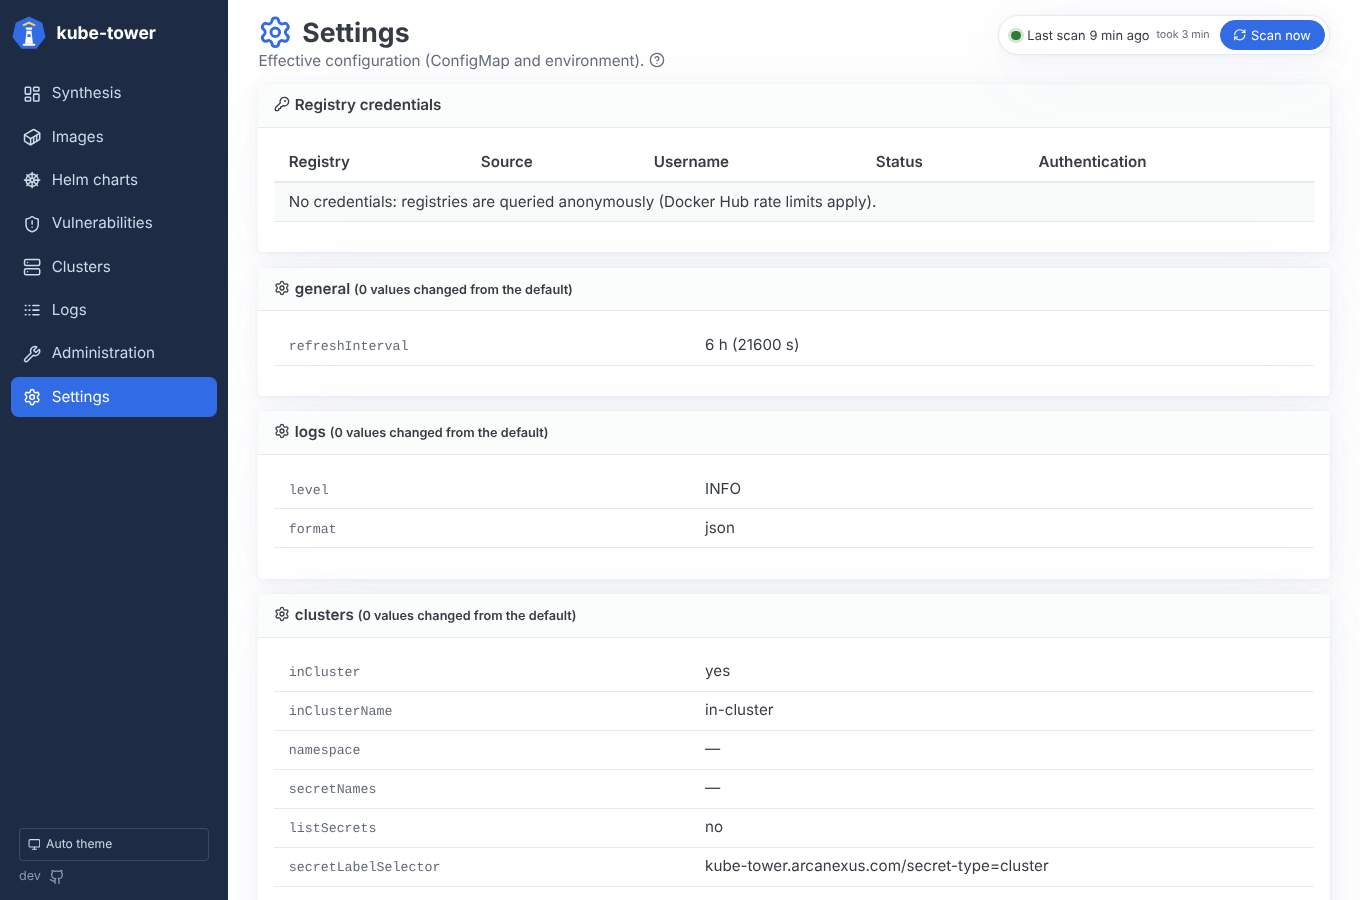
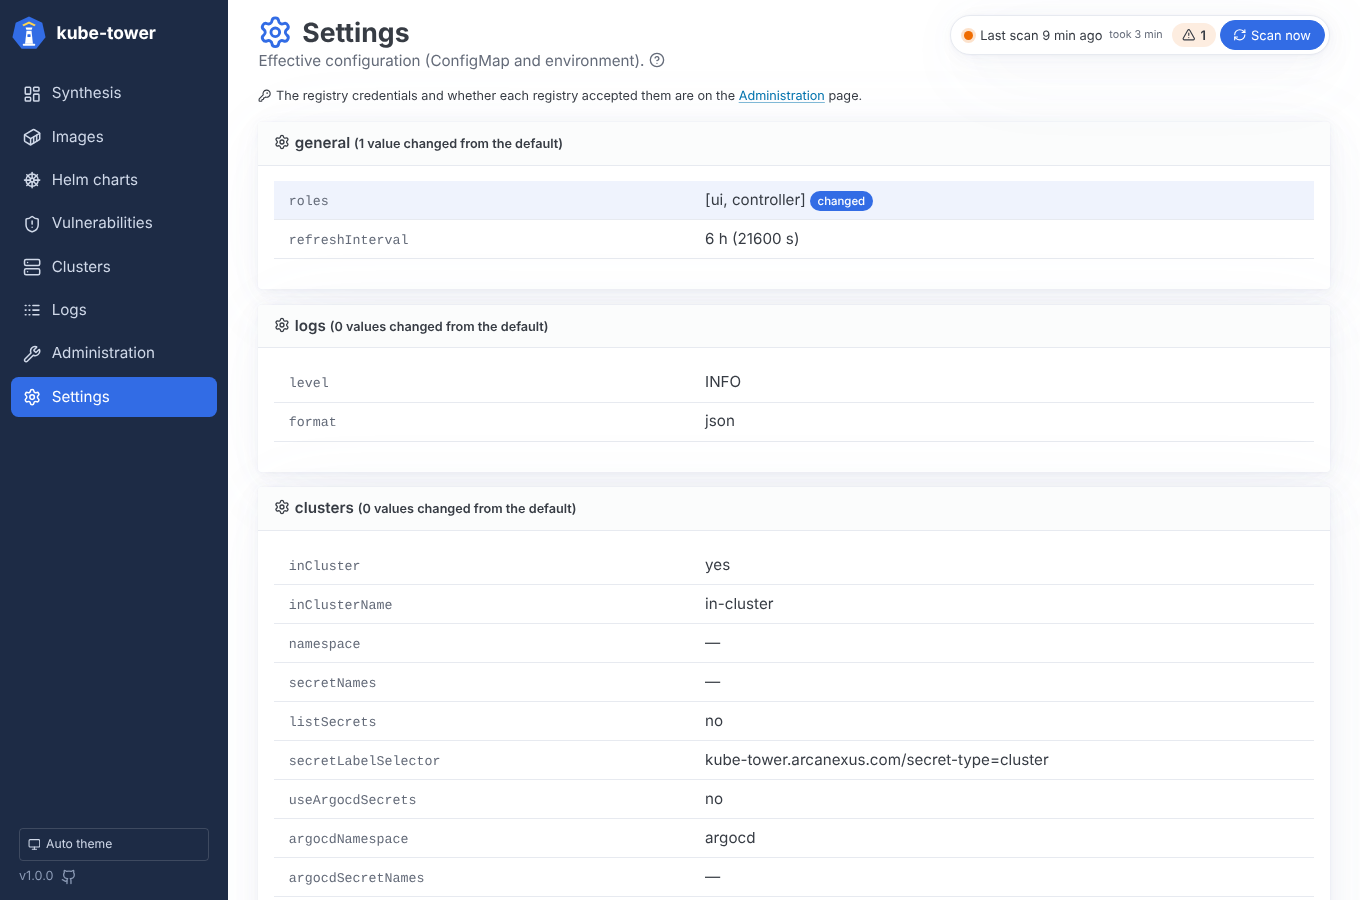
[FIX] Registry authentication status in distributed mode, ui and worker sizing and damped autoscaling (#124)
* [FIX] Registry authentication status seen by the worker pods, shown on the Administration page

In the distributed mode the worker pods query the registries, so the controller's status stayed
"not tried yet". The version check results now carry what the registries answered; the controller
keeps the latest answer of each registry. The registry credentials table moves from the Settings
page to the Administration page.

Claude-Session: https://claude.ai/code/session_012epqzoRGGbjurPhjrWGz7t

* [FIX] Chart: size the ui and worker pods from measures, damp their autoscaling

A ui pod requested 20m of CPU: the 80% autoscaling target (16m) was reached at every page load or
pod start, so the HPA kept adding and removing pods. ui: 1 replica, 100m CPU and 192Mi requested;
worker: 100m and 256Mi; autoscaling from 1 to 4 pods with a default behavior (one pod more per
minute at most, after 2 minutes above the target). docs/scaling.md gives the CPU cost of each page.

Claude-Session: https://claude.ai/code/session_012epqzoRGGbjurPhjrWGz7t

---------

diff --git a/src/kube_tower/web/templates/settings.html b/src/kube_tower/web/templates/settings.html
@@ -3,29 +3,8 @@
 {% block heading %}{{ page_title("settings", "Settings", "Effective configuration (ConfigMap and environment).", "Read from the kube-tower ConfigMap (Helm values) and the environment. Secrets are only referenced, never displayed. Values changed from the defaults are highlighted.") }}{% endblock %}
 {% block content %}
 
-<article class="settings">
-<header>{{ icon("key") }}Registry credentials</header>
-<div class="overflow-auto">
-<table class="striped">
-  <thead><tr><th>Registry</th><th>Source</th><th>Username</th><th>Status</th><th>Authentication</th></tr></thead>
-  <tbody>
-  {% for c in credentials %}
-    <tr>
-      <td><code>{{ c.registry }}</code></td><td>{{ c.source }}</td><td>{{ c.username }}</td>
-      <td>{% if c.ok %}<span class="badge badge-up-to-date">{{ icon("ok") }}loaded</span>{% else %}<span class="badge badge-error">{{ icon("error") }}invalid</span>{% endif %}{% if c.message %}<br><small>{{ c.message }}</small>{% endif %}</td>
-      {% set a = auth[c.registry] %}
-      <td>{% if a is none %}<span class="badge badge-unknown" title="No request with these credentials yet: run a scan or the connectivity test (Administration)">{{ icon("unknown") }}not tried yet</span>
-        {%- else %}<span class="badge {{ 'badge-up-to-date' if a.ok else 'badge-error' }}" title="{{ a.host }}">{{ icon("ok" if a.ok else "error") }}{{ "accepted" if a.ok else "refused" }}</span>
-        <br><small><time datetime="{{ a.at.isoformat() }}" class="ago">{{ a.at.strftime("%Y-%m-%d %H:%M UTC") }}</time>{% if a.host != c.registry %} ({{ a.host }}){% endif %}</small>
-        {%- if a.message %}<br><small>{{ a.message }}</small>{% endif %}{% endif %}</td>
-    </tr>
-  {% else %}
-    <tr><td colspan="5">No credentials: registries are queried anonymously (Docker Hub rate limits apply).</td></tr>
-  {% endfor %}
-  </tbody>
-</table>
-</div>
-</article>
+<p><small>{{ icon("key") }}The registry credentials and whether each registry accepted them are on the
+  <a href="administration#registries">Administration</a> page.</small></p>
 
 {% for name, rows in sections %}
 <article class="settings">

diff --git a/src/kube_tower/web/templates/_administration.html b/src/kube_tower/web/templates/_administration.html
@@ -149,6 +149,31 @@
     {% endif %}
   </article>
 
+  <article id="registries">
+  <header>{{ icon("key") }}Registry credentials</header>
+  <p><small>Loaded from the Secrets, the image pull secrets and the cloud providers; the authentication is the last answer of the registry to a request with these credentials (scans, rescans, connectivity test).</small></p>
+  <div class="overflow-auto">
+  <table class="striped">
+    <thead><tr><th>Registry</th><th>Source</th><th>Username</th><th>Status</th><th>Authentication</th></tr></thead>
+    <tbody>
+    {% for c in credentials %}
+      <tr>
+        <td><code>{{ c.registry }}</code></td><td>{{ c.source }}</td><td>{{ c.username }}</td>
+        <td>{% if c.ok %}<span class="badge badge-up-to-date">{{ icon("ok") }}loaded</span>{% else %}<span class="badge badge-error">{{ icon("error") }}invalid</span>{% endif %}{% if c.message %}<br><small>{{ c.message }}</small>{% endif %}</td>
+        {% set a = auth[c.registry] %}
+        <td>{% if a is none %}<span class="badge badge-unknown" title="No request with these credentials yet: run a scan or the connectivity test">{{ icon("unknown") }}not tried yet</span>
+          {%- else %}<span class="badge {{ 'badge-up-to-date' if a.ok else 'badge-error' }}" title="{{ a.host }}">{{ icon("ok" if a.ok else "error") }}{{ "accepted" if a.ok else "refused" }}</span>
+          <br><small><time datetime="{{ a.at.isoformat() }}" class="ago">{{ a.at.strftime("%Y-%m-%d %H:%M UTC") }}</time>{% if a.host != c.registry %} ({{ a.host }}){% endif %}</small>
+          {%- if a.message %}<br><small>{{ a.message }}</small>{% endif %}{% endif %}</td>
+      </tr>
+    {% else %}
+      <tr><td colspan="5">No credentials: registries are queried anonymously (Docker Hub rate limits apply).</td></tr>
+    {% endfor %}
+    </tbody>
+  </table>
+  </div>
+  </article>
+
   <article>
     <header>{{ icon("trash") }}Unused node images</header>
     <p><small>Images cached on nodes that no workload of their cluster uses (Pods, Deployments, StatefulSets, DaemonSets, CronJobs),

diff --git a/tests/test_web.py b/tests/test_web.py
@@ -317,7 +317,7 @@ def test_metrics():
     assert not any(line.startswith("kube_tower_image_workload_info") and 'kind="Node"' in line for line in lines)
 
 
-def test_settings_page_shows_credentials_without_secrets(monkeypatch):
+def test_administration_page_shows_credentials_without_secrets(monkeypatch):
     from kube_tower.config import RegistryCredential
 
     monkeypatch.setenv("DOCKERHUB_TOKEN", "super-secret-token")
@@ -327,14 +327,20 @@ def test_settings_page_shows_credentials_without_secrets(monkeypatch):
         RegistryCredential("ghcr.io", password_file="/nonexistent"),
     ]
     scanner = FakeScanner()
-    page = TestClient(create_app(settings, scanner, background=False)).get("/settings").text
+    page = TestClient(create_app(settings, scanner, background=False)).get("/administration").text
+    assert '<article id="registries">' in page
     assert "docker.io" in page and "alex" in page and "loaded" in page and "invalid" in page
     assert page.count("not tried yet") == 2
     scanner.registry_auth.record("docker.io", True)
     scanner.registry_auth.record("ghcr.io", False, "ghcr.io refused the credentials: HTTP 403 Forbidden")
-    page = TestClient(create_app(settings, scanner, background=False)).get("/settings").text
+    client = TestClient(create_app(settings, scanner, background=False))
+    page = client.get("/administration").text
     assert "not tried yet" not in page and "accepted" in page and "refused" in page and "HTTP 403 Forbidden" in page
     assert "super-secret-token" not in page
+    # The Settings page only references the secrets, and points to the Administration page for the credentials
+    page = client.get("/settings").text
+    assert "super-secret-token" not in page and "Registry credentials</header>" not in page
+    assert 'href="administration#registries"' in page
     assert "passwordEnv: DOCKERHUB_TOKEN" in page  # camelCase like config.yaml
 
 

diff --git a/tests/test_internal.py b/tests/test_internal.py
@@ -531,3 +531,29 @@ async def test_large_results_and_states_stay_off_the_event_loop(fakes, monkeypat
         assert fresh.headers["content-type"] == "application/json" and fresh.json()["snapshot"]["images"]
         same = await http.post("/internal/v1/state", json={"revision": scanner.revision})
         assert same.json()["snapshot"] is None
+
+
+async def test_registry_authentication_seen_by_the_workers_reaches_the_controller():
+    """The controller shows on its Administration page whether the registries accepted the credentials:
+    the check results of the worker pods carry what the registries answered them."""
+    from datetime import UTC, datetime, timedelta
+
+    from kube_tower.registry.auth import AuthResult
+    from kube_tower.tasks import CheckImagesResult, CheckImagesTask, encode_result
+
+    controller = Worker(Settings())
+    runner = QueueRunner(controller, set())
+    old = datetime.now(UTC) - timedelta(hours=1)
+    controller.registry_auth.record("ghcr.io", True)  # newer than what the worker saw: kept
+    pod = Worker(Settings())
+    pod.registry_auth.record("docker.io", False, "HTTP 401")
+    pod.registry_auth._results["ghcr.io"] = AuthResult("ghcr.io", False, old, "old refusal")
+    running = asyncio.create_task(runner.run(CheckImagesTask([])))
+    task = await runner.next({"worker"}, wait=1)
+    assert runner.complete(task["id"], encode_result(CheckImagesResult([], pod.registry_auth.all())))
+    result = await running
+    assert [a.host for a in result.registry_auth] == ["docker.io", "ghcr.io"]
+    assert controller.registry_auth.get("docker.io").message == "HTTP 401"
+    assert controller.registry_auth.get("ghcr.io").ok  # the latest answer wins
+    # The worker side sends what it saw with each check
+    assert (await pod.execute(CheckImagesTask([]))).registry_auth == pod.registry_auth.all()

diff --git a/src/kube_tower/web/ui.py b/src/kube_tower/web/ui.py
@@ -633,16 +633,7 @@ def mount(app: FastAPI) -> None:
         # Settings only hold references to secrets (paths, env var names), never their values.
         settings = request.app.state.settings
         rendered = yaml.safe_dump(_camel(dataclasses.asdict(settings)), sort_keys=False)
-        credentials, auth = request.app.state.backend.registry_credentials(settings)
-        return render(
-            request,
-            "settings",
-            tab="settings",
-            settings_yaml=rendered,
-            sections=settings_sections(settings),
-            credentials=credentials,
-            auth=auth,
-        )
+        return render(request, "settings", tab="settings", settings_yaml=rendered, sections=settings_sections(settings))
 
     def render_administration(request: Request, notice: str = "", error: str = "", full: bool = False) -> HTMLResponse:
         """The Administration page, or only its actions (`#administration`) for htmx. While an action runs the
@@ -652,6 +643,7 @@ def mount(app: FastAPI) -> None:
         images, vulnerabilities, charts = backend.failed_items()
         busy = bool(backend.locked or backend.rescanning or backend.admin_running)
         processes = backend.processes()
+        credentials, auth = backend.registry_credentials(request.app.state.settings)
         response = templates.TemplateResponse(
             request,
             "administration.html" if full else "_administration.html",
@@ -671,6 +663,8 @@ def mount(app: FastAPI) -> None:
                 "error": error,
                 "processes": processes,
                 "roles_status": roles_status(processes),
+                "credentials": credentials,
+                "auth": auth,
             },
         )
         if request.query_params.get("polling") and not busy:

diff --git a/tests/test_chart.py b/tests/test_chart.py
@@ -441,7 +441,7 @@ def test_distributed_mode(tmp_path):
     ]
     roles = {g: env(deployment(docs, g))["KUBE_TOWER_ROLES"] for g in ("controller", "ui", "worker", "trivy")}
     assert roles == {"controller": "controller", "ui": "ui", "worker": "worker", "trivy": "trivy"}
-    assert {g: deployment(docs, g)["replicas"] for g in roles} == {"controller": 2, "ui": 2, "worker": 2, "trivy": 1}
+    assert {g: deployment(docs, g)["replicas"] for g in roles} == {"controller": 2, "ui": 1, "worker": 2, "trivy": 1}
     assert docs[("Secret", "kt-kube-tower-internal")]["stringData"] == {"token": "t0ken"}
     for group in roles:
         spec = deployment(docs, group)
@@ -514,7 +514,13 @@ def test_distributed_groups(tmp_path):
     assert deployment(docs, "trivy")["replicas"] == 1
     assert "replicas" not in deployment(docs, "worker")
     hpa = docs[("HorizontalPodAutoscaler", "kt-kube-tower-worker")]["spec"]
-    assert hpa["scaleTargetRef"]["name"] == "kt-kube-tower-worker" and hpa["maxReplicas"] == 6 and hpa["minReplicas"] == 2
+    assert hpa["scaleTargetRef"]["name"] == "kt-kube-tower-worker" and hpa["maxReplicas"] == 6 and hpa["minReplicas"] == 1
+    # Damped: a page load or a pod start does not add pods, one pod more per minute at most
+    assert hpa["behavior"]["scaleUp"] == {
+        "stabilizationWindowSeconds": 120,
+        "policies": [{"type": "Pods", "value": 1, "periodSeconds": 60}],
+    }
+    assert hpa["behavior"]["scaleDown"] == {"stabilizationWindowSeconds": 300}
     assert [k for k in docs if k[0] == "HorizontalPodAutoscaler"] == [("HorizontalPodAutoscaler", "kt-kube-tower-worker")]
 
 

diff --git a/src/kube_tower/tasks.py b/src/kube_tower/tasks.py
@@ -21,6 +21,7 @@ from dataclasses import dataclass, field
 from typing import TYPE_CHECKING, Any, Protocol
 
 from kube_tower.models import ChartReport, ImageReport, VulnerabilityReport, decode, encode
+from kube_tower.registry.auth import AuthResult
 from kube_tower.trivy import TrivyStatus
 
 if TYPE_CHECKING:
@@ -101,11 +102,14 @@ class CollectResult:
 @dataclass
 class CheckImagesResult:
     images: list[ImageReport]
+    # Whether the registries accepted the credentials, as seen by the process that ran the task
+    registry_auth: list[AuthResult] = field(default_factory=list)
 
 
 @dataclass
 class CheckChartsResult:
     charts: list[ChartReport]
+    registry_auth: list[AuthResult] = field(default_factory=list)
 
 
 @dataclass
@@ -232,7 +236,11 @@ class QueueRunner:
         try:
             # In a thread: decoding a large result (e.g. the vulnerabilities of 50 images) takes seconds, and this
             # event loop also serves the internal API and, in a process with the ui role, the pages.
-            return await asyncio.to_thread(decode_result, kind, await queued.future)
+            result = await asyncio.to_thread(decode_result, kind, await queued.future)
+            # The registries answered the worker pod: the Administration page of the controller shows it.
+            if auth := getattr(result, "registry_auth", None):
+                self.worker.registry_auth.merge(auth)
+            return result
         finally:  # done, or the scan was cancelled: forget it
             if queued in self.queue:
                 self.queue.remove(queued)

diff --git a/src/kube_tower/worker.py b/src/kube_tower/worker.py
@@ -201,12 +201,12 @@ class Worker:
         async with self.clients() as (oci, _, credentials):
             log.info("registry credentials loaded for: %s", ", ".join(credentials.describe()) or "none (anonymous access)")
             await ImageChecker(oci, self.settings.images, self.settings.registries.concurrency).check_all(task.images)
-        return CheckImagesResult(task.images)
+        return CheckImagesResult(task.images, self.registry_auth.all())
 
     async def _check_charts(self, task: CheckChartsTask) -> CheckChartsResult:
         async with self.clients() as (_, helm, _):
             await ChartChecker(helm, self.settings.helm, self.settings.registries.concurrency).check_all(task.charts)
-        return CheckChartsResult(task.charts)
+        return CheckChartsResult(task.charts, self.registry_auth.all())
 
     async def _scan_vulnerabilities(self, task: ScanVulnerabilitiesTask) -> ScanVulnerabilitiesResult:
         """Each image gets its report as soon as it is scanned (the UI shows them as they come)."""

diff --git a/src/kube_tower/registry/auth.py b/src/kube_tower/registry/auth.py
@@ -71,6 +71,16 @@ class AuthResults:
             log.warning("%s refused the credentials: %s", host, message)
         self._results[host.lower()] = AuthResult(host.lower(), ok, datetime.now(UTC), message)
 
+    def all(self) -> list[AuthResult]:
+        return list(self._results.values())
+
+    def merge(self, results: list[AuthResult]) -> None:
+        """Results seen by another process (a worker pod): the latest of each host wins."""
+        for result in results:
+            known = self._results.get(result.host)
+            if known is None or known.at < result.at:
+                self._results[result.host] = result
+
     def get(self, registry: str) -> AuthResult | None:
         """The result for a configured registry; for a pattern, the latest refusal of a matching host,
         else its latest success."""

diff --git a/docs/usage.md b/docs/usage.md
@@ -233,6 +233,7 @@ Administration actions, run in the background (the page follows them and reloads
 | Scans | **Scan now** (same as the button of the scan status). A scan checks the versions first, then scans the vulnerabilities with Trivy: during this Trivy phase a new scan, *Retry what failed* and the rescans can already start (a new scan waits for the Trivy phase to end before its own one). **Retry what failed**: checks again only the image version checks, vulnerability scans and charts (or subcharts) in error in the last scan, e.g. after fixing credentials or a rate limit. One image or chart is rescanned from its detail panel (see above) |
 | Trivy | Trivy version and vulnerability database (version, build date, next update, download date). **Update the database** downloads it when a newer one is published (standalone mode; with `trivy.server.enabled` the Trivy server updates its own). Scans wait for the update. **Clear** forgets the cached scan results (kept `vulnerabilities.trivy.rescanInterval`), so the next scan scans every image again; **Clear and scan now** also starts it |
 | Connectivity | **Test the connectivity** of every cluster (Kubernetes API `/version`, cluster Secrets read again), every container registry of the last scan and every registry with credentials (`/v2/`, and a pull token for one of its repositories), every HTTP Helm repository (`index.yaml`) and the Trivy server (`/healthz`), with kube-tower's credentials. Failures say why (proxy, DNS, TLS, 401/403…) |
+| Registry credentials | The registry credentials loaded (Secrets, image pull secrets, cloud providers): registry, where they come from, username and whether they could be read; secret values are never displayed. **Authentication** tells whether the registry accepted them at the last request that sent them (a scan, a rescan or the connectivity test): **accepted**, **refused** (with the registry's answer, e.g. `HTTP 401 Unauthorized`) or **not tried yet** (no request with these credentials since the controller started). In the distributed mode the worker pods send what the registries answered them with each result. For a pattern (`*.dkr.ecr.*.amazonaws.com`), a refusal by any matching registry is shown first, with its host |
 | API | Links to the API documentation (`api/docs`), the last scan as JSON (`api/snapshot`) and the Prometheus metrics (`metrics`) |
 | Unused node images | Images cached on nodes that no workload of their cluster uses, per cluster, with the `crictl rmi` command to run on the node. kube-tower stays read-only and does not remove them: the kubelet garbage collects unused images when a node's disk goes over `imageGCHighThresholdPercent` (85 % by default). Needs `images.includeNodeImages` |
 
@@ -242,15 +243,9 @@ Administration actions, run in the background (the page follows them and reloads
 
 The effective configuration, one table per section (with the same camelCase keys as `config.yaml`;
 durations in a readable form with their value in seconds; values changed from the defaults
-highlighted and counted; the whole configuration as YAML at the bottom), and the registry
-credentials that were loaded. Secret values are never displayed: only the registry, where the
-credentials come from, the username and whether they could be read.
-
-The **Authentication** column tells whether the registry accepted the credentials, at the last
-request that sent them (a scan, a rescan or the connectivity test of the Administration page):
-**accepted**, **refused** (with the registry's answer, e.g. `HTTP 401 Unauthorized`) or **not tried
-yet** (no request with these credentials since kube-tower started). For a pattern
-(`*.dkr.ecr.*.amazonaws.com`), a refusal by any matching registry is shown first, with its host.
+highlighted and counted; the whole configuration as YAML at the bottom). Secrets are only
+referenced (Secret name, file, environment variable), never displayed. The registry credentials
+and their status are on the [Administration](#administration) page.
 
 ## Statuses
 

diff --git a/docs/troubleshooting.md b/docs/troubleshooting.md
@@ -16,7 +16,7 @@ every request).
 | `exec / AWS auth is not supported in the ArgoCD format` | The ArgoCD-format cluster Secret uses `execProviderConfig` or `awsAuthConfig` | Use a ServiceAccount token (`bearerToken`), or a `kubeconfig` key with an allowed exec plugin, see [managed clusters](clusters.md#managed-clusters-eks-gke-aks-exec-plugins) |
 | `exec command '…' is not allowed` | The kubeconfig of the cluster Secret runs an exec plugin not listed in `clusters.execCommands` | Add the command, exactly as written in the kubeconfig, to `config.clusters.execCommands`, or use a ServiceAccount token |
 | `… (a file path) is not supported` / `auth-provider is not supported` | The kubeconfig points to files of the pod or uses a legacy auth provider | Put the content inline (`token`, `*-data` keys), or use an exec plugin |
-| Images in `error` with `cannot get a pull token …: HTTP 401` or `cannot list the tags of …: HTTP 401/403` | Private repository or wrong credentials | Add [registry credentials](configuration.md#registry-authentication); check the Settings page shows them as `loaded` and `accepted` (`refused` gives the registry's answer) |
+| Images in `error` with `cannot get a pull token …: HTTP 401` or `cannot list the tags of …: HTTP 401/403` | Private repository or wrong credentials | Add [registry credentials](configuration.md#registry-authentication); check the Administration page shows them as `loaded` and `accepted` (`refused` gives the registry's answer) |
 | Images in `error` with `… did not answer before registries.timeout` | Slow or throttling registry (often Docker Hub with many anonymous requests) | Add Docker Hub credentials, lower `registries.concurrency`, increase `registries.timeout`; requests are already retried `registries.retries` times |
 | Images in `error` with `cannot open a connection to … before registries.timeout` | No route from the pod to the registry: egress network policy, firewall, proxy, or IPv6 without connectivity | Test from the pod: `kubectl -n kube-tower exec deploy/kube-tower -- python -c "import httpx;print(httpx.get('https://registry-1.docker.io/v2/').status_code)"` (401 means reachable) |
 | `no AWS identity for provider aws` / `no Azure identity for provider azure` | A registry has a cloud `provider` but the pod has no such identity | Annotate the ServiceAccount (IRSA role, Azure client id) and, for Azure, add the pod label `azure.workload.identity/use: "true"`, see [registries](registries.md#cloud-registries-tokens-from-the-identity-of-the-pod) |

diff --git a/docs/scaling.md b/docs/scaling.md
@@ -61,9 +61,9 @@ distributed:
     ui:
       autoscaling:
         enabled: true
-        minReplicas: 2
-        maxReplicas: 5
-        targetCPUUtilizationPercentage: 80
+        minReplicas: 1
+        maxReplicas: 4
+        targetCPUUtilizationPercentage: 80   # of the CPU request (100m by default)
     worker:
       replicas: 4
       resources:
@@ -99,6 +99,30 @@ to another pod, e.g. when a worker was stopped in the middle of it.
 
 With `networkPolicy.enabled`, the kube-tower pods also accept the internal port from each other only,
 and reach it and Valkey. The internal API carries registry credentials: never expose it.
+
+### Sizing
+
+Measured with an inventory of 141 images (about 400 vulnerabilities each) and 51 charts, one CPU core:
+
+| Request | CPU per request |
+| --- | --- |
+| Synthesis | about 22 ms |
+| Clusters, Vulnerabilities | 14 to 18 ms |
+| Images, Helm charts, Administration, detail panels | 4 to 7 ms |
+| `/api/snapshot` (whole inventory as JSON, built in a thread) | about 530 ms |
+
+A user navigating loads a page every few seconds: **one ui pod serves about 10 users** with a few
+tens of millicores. An idle ui pod uses about 5m of CPU and 150Mi of memory (it reads the state of
+the controller every 2 seconds and decodes the inventory again when it changed); an idle worker
+about 3m. The defaults follow: `ui` 1 replica, 100m CPU and 192Mi requested; `worker` 2 replicas,
+100m CPU and 256Mi requested.
+
+The autoscaling target is a share of the CPU **request**: with a request far below what a pod uses
+when it starts or serves a page, the HorizontalPodAutoscaler adds pods at every page load and removes
+them minutes later. The default `autoscaling.behavior` damps it: one pod more per minute at most,
+after 2 minutes above the target; pods removed after 5 minutes below it. Workers mostly wait for the
+registries, so their CPU says little about the work queued: a fixed number of workers is usually the
+better choice, autoscaling them helps with many clusters scanned often.
 
 ## Keeping the inventory across restarts (Redis / Valkey)
 
